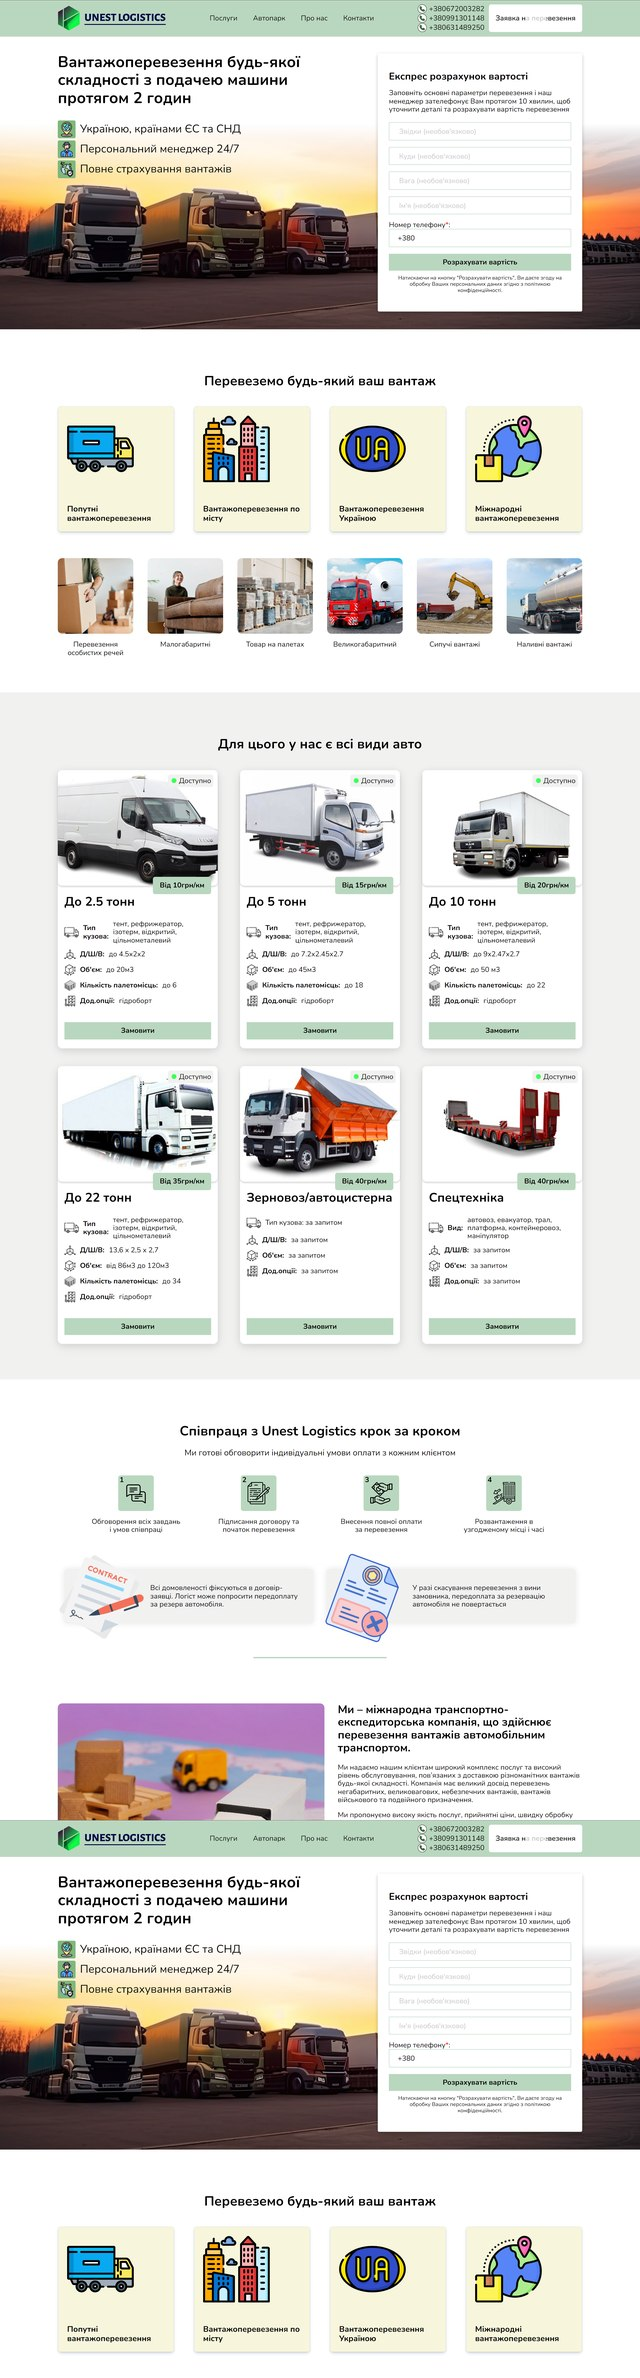
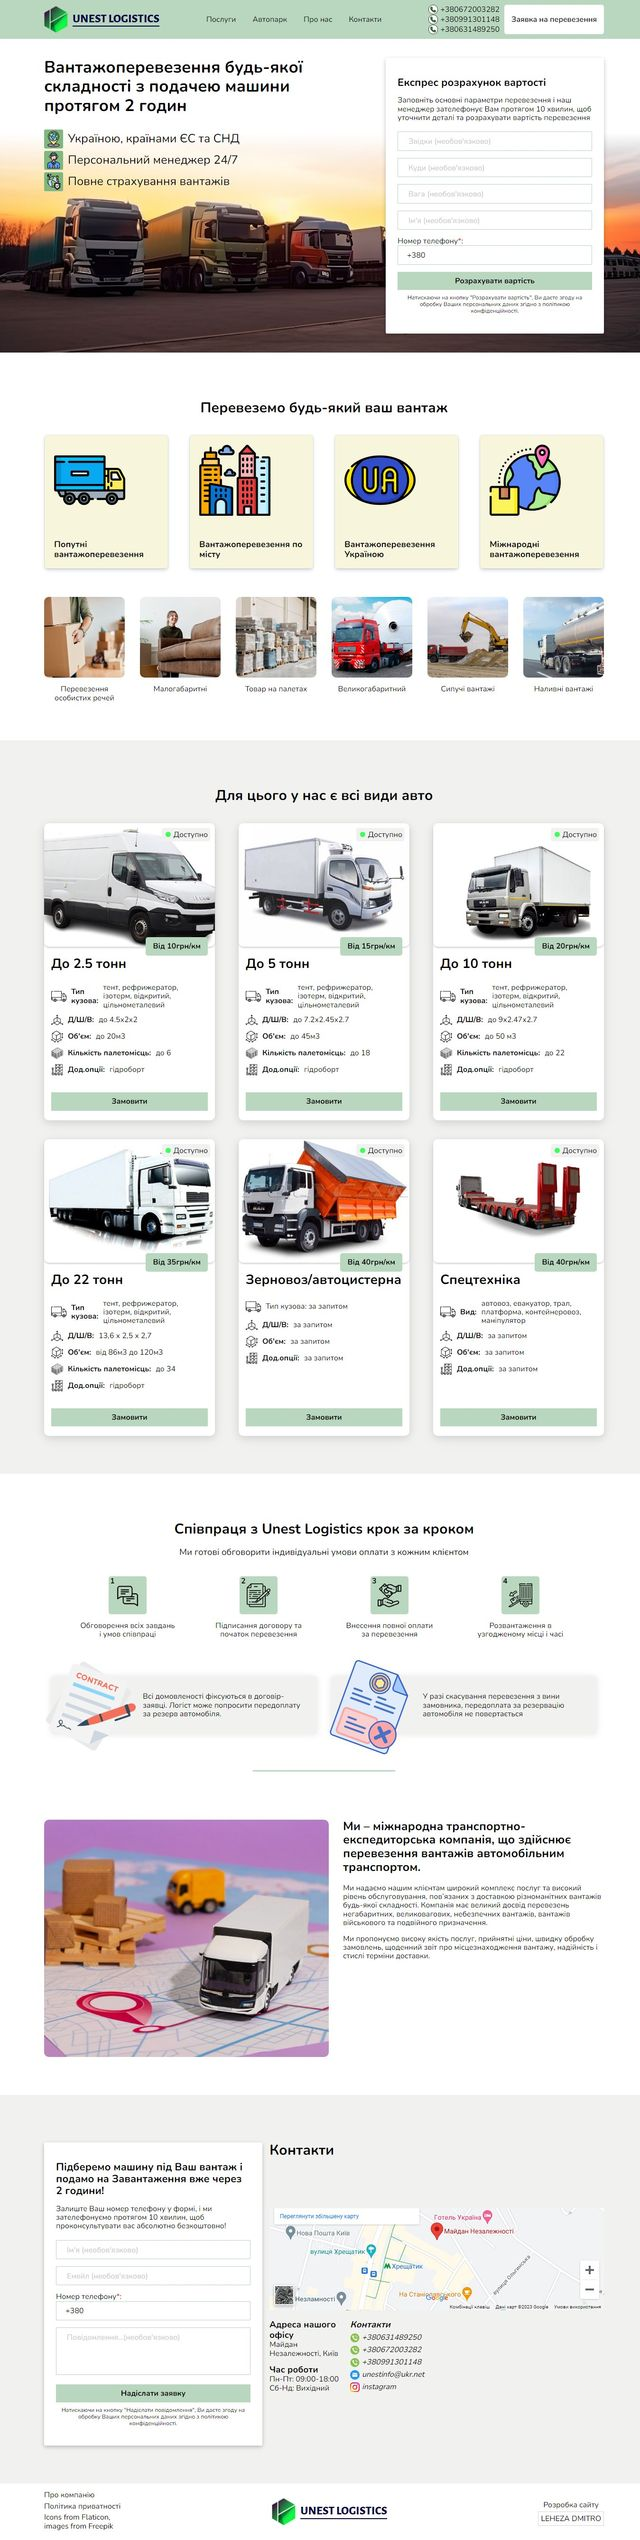
add project in portfolio section

diff --git a/css/main.css b/css/main.css
@@ -8,6 +8,10 @@ body {
   color: #2d2e32;
 }
 
+main > section:nth-child(odd) {
+  background-color: #f8f8f8;
+}
+
 ul {
   padding: 0;
   list-style: none;
@@ -59,9 +63,6 @@ header nav ul {
   font-weight: 600;
 }
 
-.hero {
-  background-color: #f8f8f8;
-}
 .hero h1 {
   margin: 30px 0;
   font-size: 55px;
@@ -161,10 +162,42 @@ header nav ul {
 
 .projects__list li {
   display: flex;
+  justify-content: space-between;
+  height: 350px;
+  padding: 15px;
+  border-radius: 10px;
+  box-shadow: rgba(99, 99, 99, 0.2) 0px 2px 8px 0px;
+  background-color: #fff;
 }
-.projects__list li img {
-  width: 400px;
-  height: 300px;
-  -o-object-fit: cover;
-     object-fit: cover;
+.projects__list li .project-image {
+  width: 530px;
+  overflow: hidden;
+  border-radius: 10px;
+  box-shadow: rgba(0, 0, 0, 0.24) 0px 3px 8px;
+}
+.projects__list li .project-image img {
+  width: 100%;
+  transform: translateY(0%);
+  transition: transform 8s ease-in-out;
+}
+.projects__list li .project-image img:hover {
+  transform: translateY(-83%);
+}
+.projects__list li .project-description {
+  width: 300px;
+  text-align: center;
+}
+.projects__list li .project-description span {
+  padding: 5px 10px;
+  font-weight: 600;
+  box-shadow: rgba(0, 0, 0, 0.24) 0px 3px 8px;
+}
+.projects__list li .project-description a {
+  display: block;
+  margin-top: 20px;
+  font-weight: 600;
+  transition: color 300ms;
+}
+.projects__list li .project-description a:hover {
+  color: #0a66c2;
 }/*# sourceMappingURL=main.css.map */

diff --git a/sass/components/_projects.scss b/sass/components/_projects.scss
@@ -2,11 +2,58 @@
   &__list {
     li {
       display: flex;
+      justify-content: space-between;
 
-      img {
-        width: 400px;
-        height: 300px;
-        object-fit: cover;
+      height: 350px;
+      padding: 15px;
+
+      border-radius: 10px;
+      box-shadow: rgba(99, 99, 99, 0.2) 0px 2px 8px 0px;
+      background-color: #fff;
+
+      .project-image {
+        width: 530px;
+
+        overflow: hidden;
+        border-radius: 10px;
+        box-shadow: rgba(0, 0, 0, 0.24) 0px 3px 8px;
+
+        img {
+          width: 100%;
+
+          transform: translateY(0%);
+          transition: transform 8s ease-in-out;
+
+          &:hover {
+            transform: translateY(-83%);
+          }
+        }
+      }
+
+      .project-description {
+        width: 300px;
+
+        text-align: center;
+
+        span {
+          padding: 5px 10px;
+          font-weight: 600;
+
+          box-shadow: rgba(0, 0, 0, 0.24) 0px 3px 8px;
+        }
+
+        a {
+          display: block;
+          margin-top: 20px;
+
+          font-weight: 600;
+
+          transition: color 300ms;
+
+          &:hover {
+            color: #0a66c2;
+          }
+        }
       }
     }
   }

diff --git a/index.html b/index.html
@@ -122,11 +122,13 @@
           <h2>Portfolio</h2>
           <ul class="projects__list">
             <li>
-              <img
-                src="./img/projects/unest-logistics.com.ua_.jpg"
-                alt="Project unest-logistics.com.ua"
-              />
-              <div>
+              <div class="project-image">
+                <img
+                  src="./img/projects/unest-logistics.com.ua_.jpg"
+                  alt="Project unest-logistics.com.ua"
+                />
+              </div>
+              <div class="project-description">
                 <h4>logistics transportation</h4>
                 <p>
                   This is my first commercial project, a business card site for
@@ -139,7 +141,7 @@
                 <span>Node.js</span>
                 <span>SCSS</span>
                 <a
-                  href="unest-logistics.com.ua"
+                  href="https://unest-logistics.com.ua/"
                   target="_blank"
                   rel="noreferrer noopener"
                   >Link</a

diff --git a/sass/base/_base-styles.scss b/sass/base/_base-styles.scss
@@ -8,6 +8,12 @@ body {
   color: #2d2e32;
 }
 
+main {
+  & > section:nth-child(odd) {
+    background-color: #f8f8f8;
+  }
+}
+
 ul {
   padding: 0;
   list-style: none;

diff --git a/sass/components/_hero.scss b/sass/components/_hero.scss
@@ -6,8 +6,6 @@
   p {
     margin: 0 0 30px 0;
   }
-
-  background-color: #f8f8f8;
 }
 
 .hero-main {
